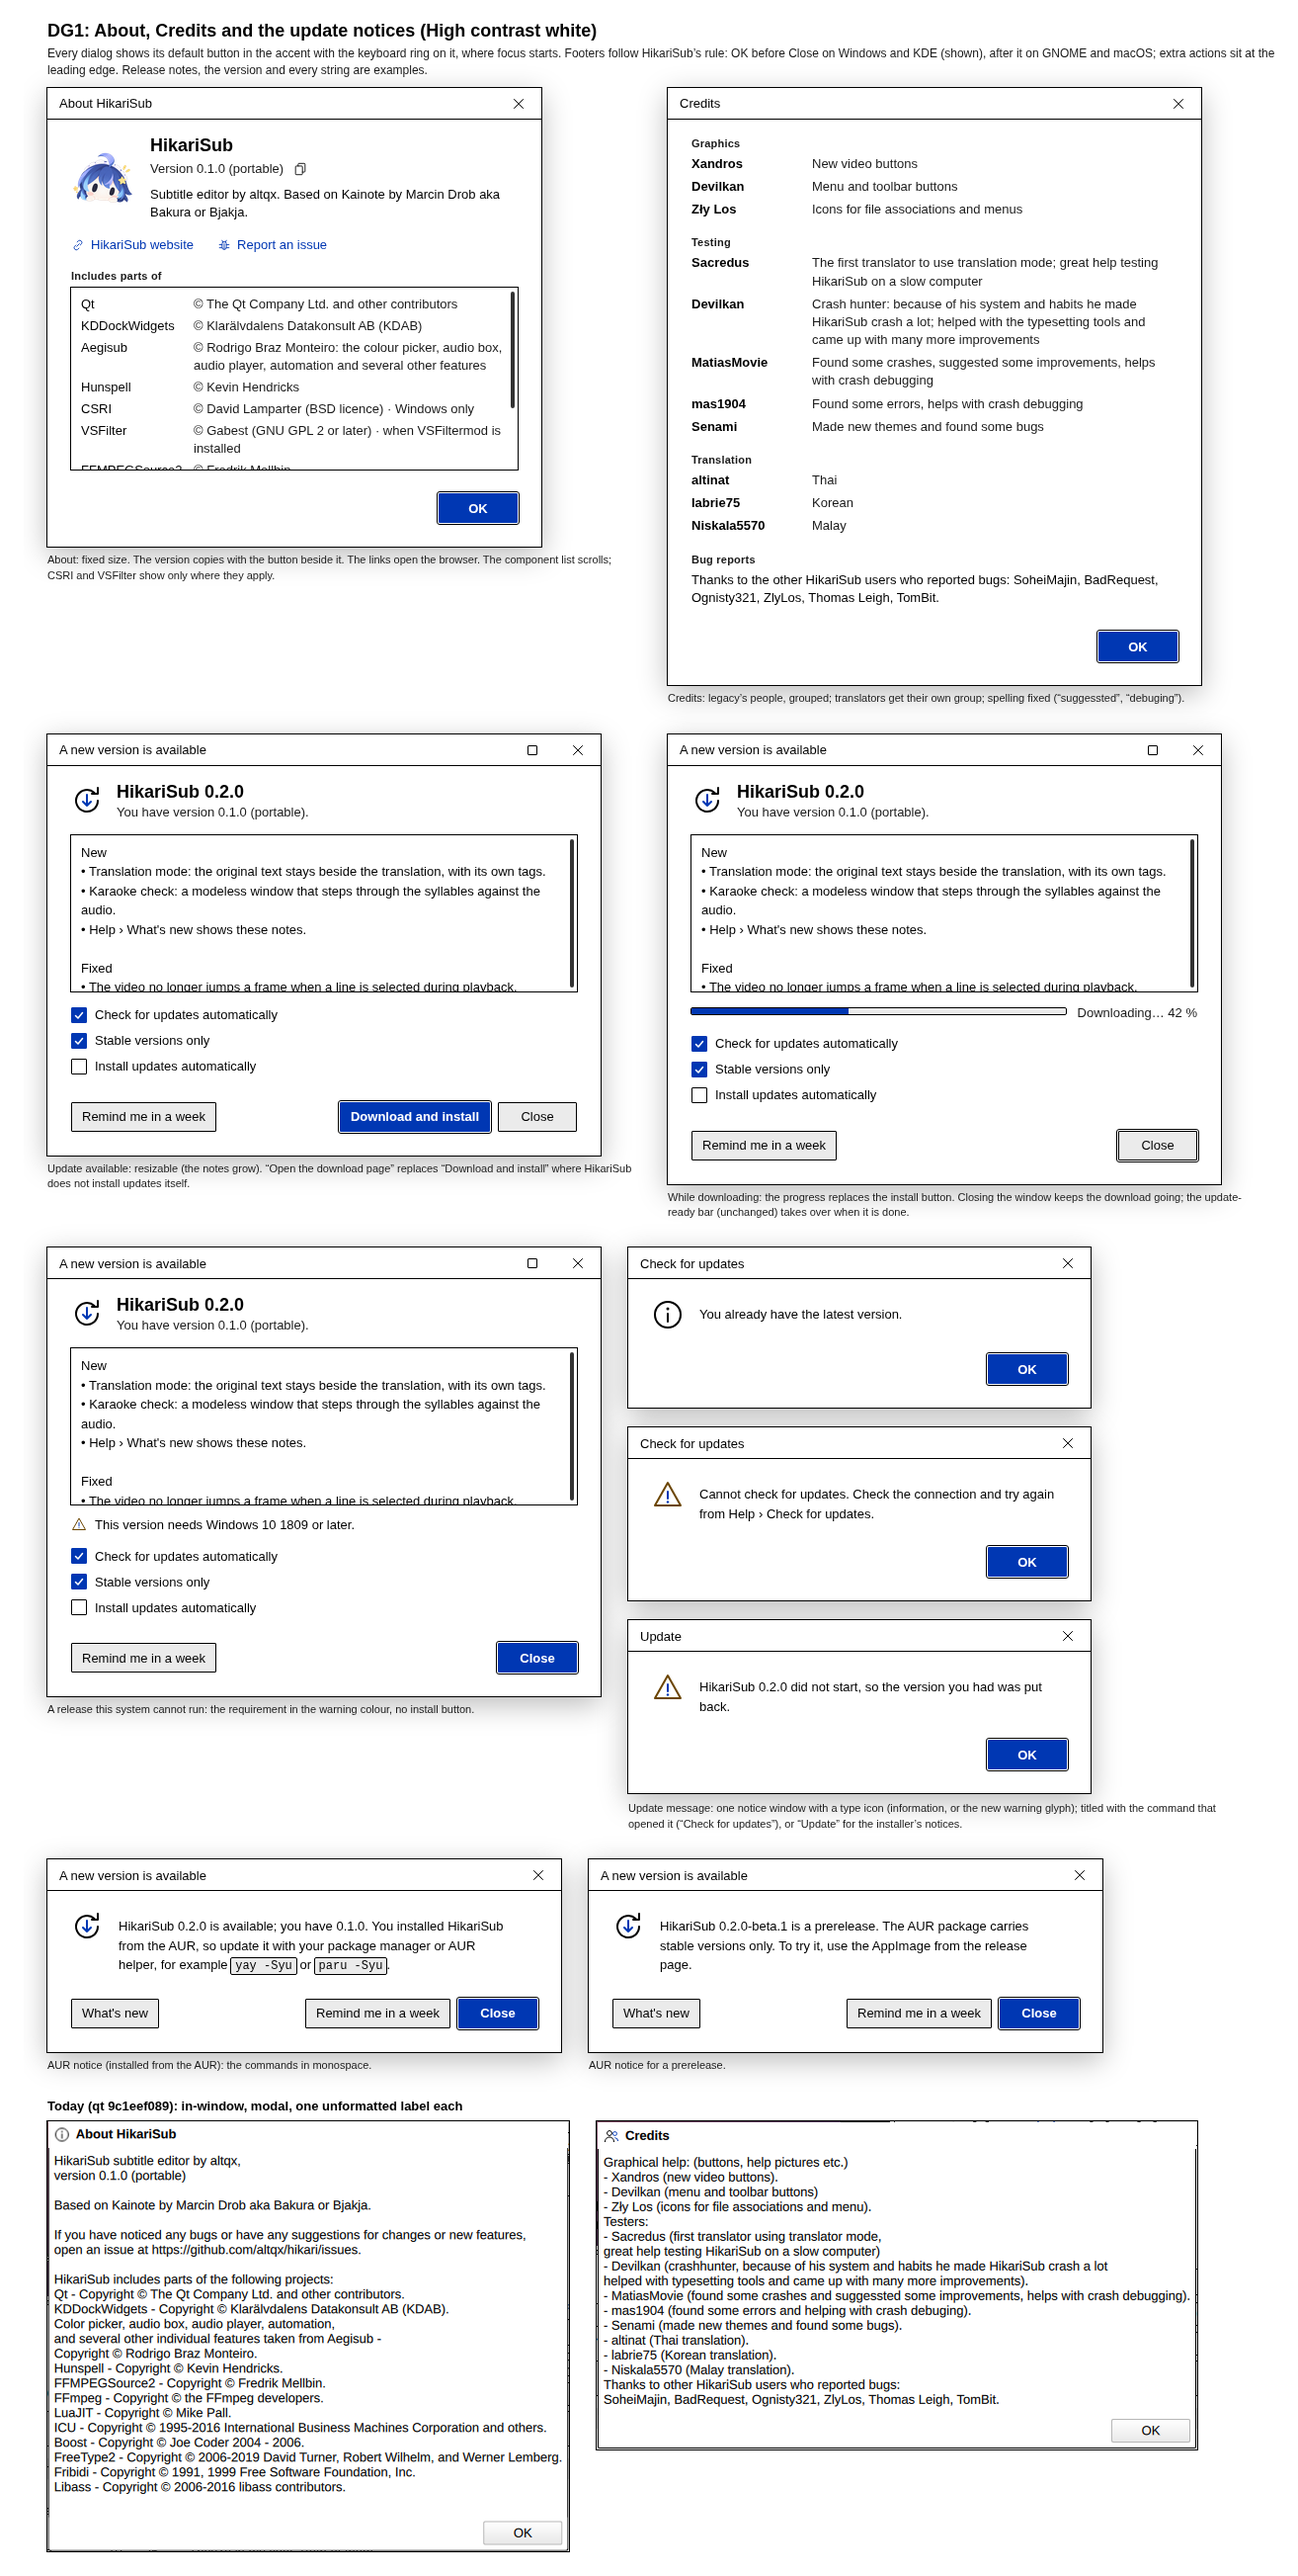
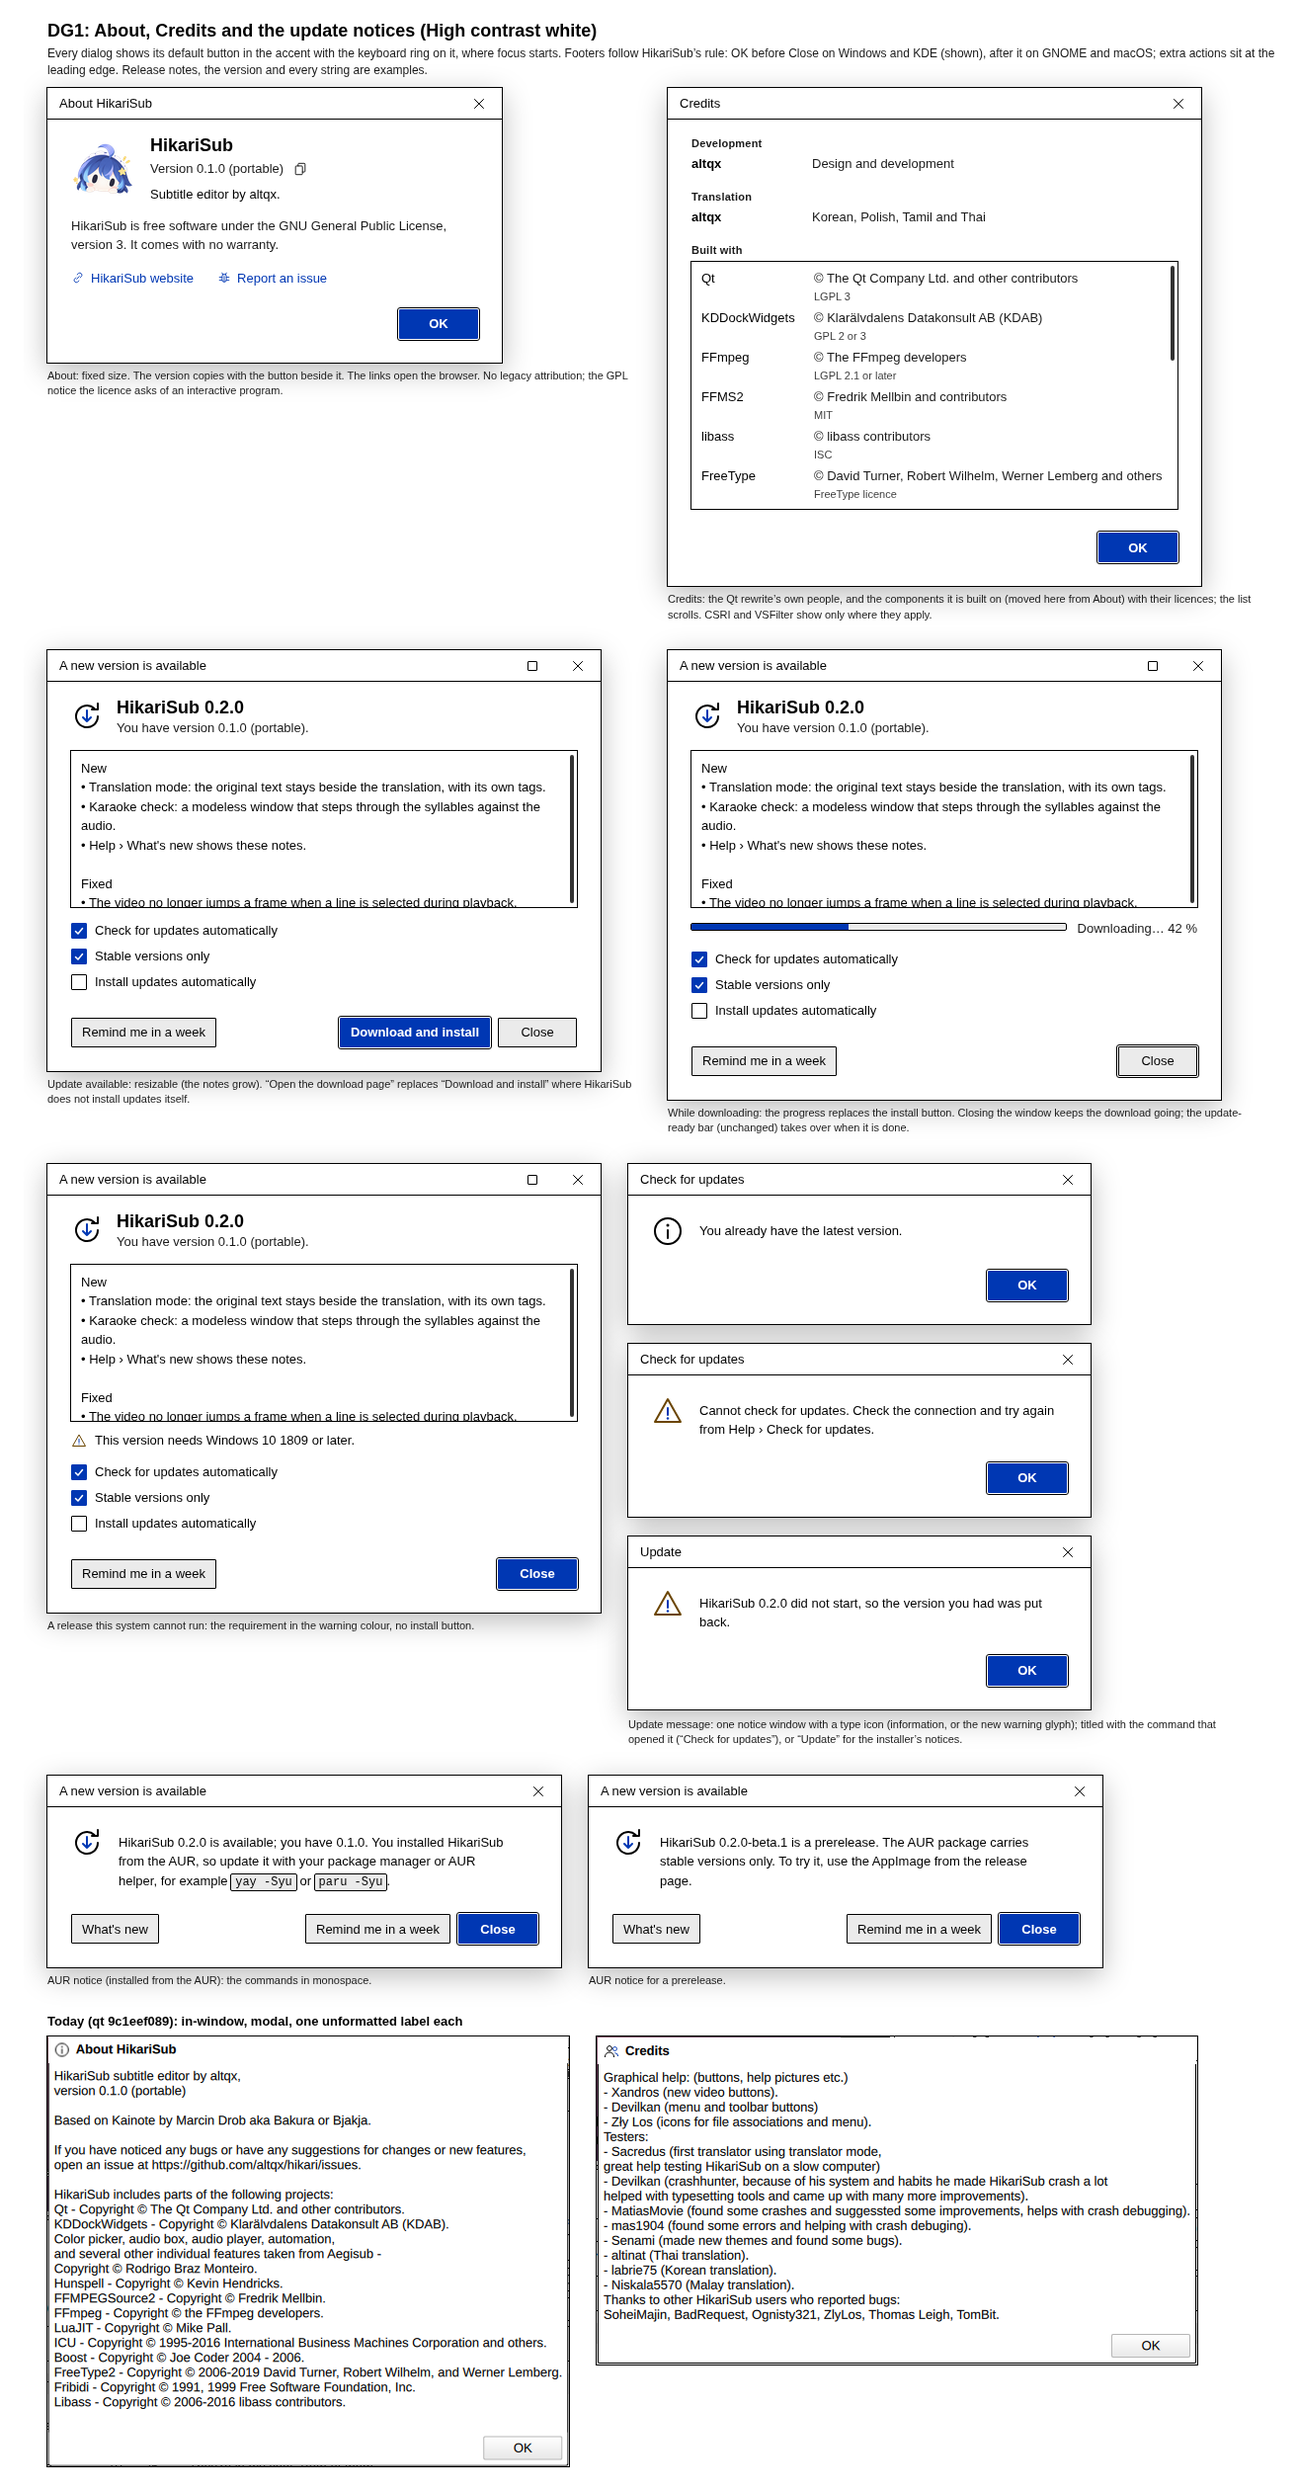
DG1 #222 mockup: About without the Kainote line, Credits redone for the Qt rewrite

diff --git a/evidence/w6-dg1/mockup/gen.py b/evidence/w6-dg1/mockup/gen.py
@@ -118,68 +118,64 @@ def checkbox(text, on):
 
 VERSION = "0.1.0 (portable)"
 
+# The Qt rewrite's own components (vcpkg.json, plus libass's text stack), with their licences.
 COMPONENTS = [
-    ("Qt", "© The Qt Company Ltd. and other contributors"),
-    ("KDDockWidgets", "© Klarälvdalens Datakonsult AB (KDAB)"),
-    ("Aegisub", "© Rodrigo Braz Monteiro: the colour picker, audio box, audio player, automation and several "
-                "other features"),
-    ("Hunspell", "© Kevin Hendricks"),
-    ("CSRI", "© David Lamparter (BSD licence) · Windows only"),
-    ("VSFilter", "© Gabest (GNU GPL 2 or later) · when VSFiltermod is installed"),
-    ("FFMPEGSource2", "© Fredrik Mellbin"),
-    ("FFmpeg", "© the FFmpeg developers"),
-    ("LuaJIT", "© Mike Pall"),
-    ("ICU", "© 1995-2016 International Business Machines Corporation and others"),
-    ("Boost", "© Joe Coder 2004 - 2006"),
-    ("FreeType2", "© 2006-2019 David Turner, Robert Wilhelm, and Werner Lemberg"),
-    ("Fribidi", "© 1991, 1999 Free Software Foundation, Inc."),
-    ("Libass", "© 2006-2016 libass contributors"),
+    ("Qt", "The Qt Company Ltd. and other contributors", "LGPL 3"),
+    ("KDDockWidgets", "Klarälvdalens Datakonsult AB (KDAB)", "GPL 2 or 3"),
+    ("FFmpeg", "The FFmpeg developers", "LGPL 2.1 or later"),
+    ("FFMS2", "Fredrik Mellbin and contributors", "MIT"),
+    ("libass", "libass contributors", "ISC"),
+    ("FreeType", "David Turner, Robert Wilhelm, Werner Lemberg and others", "FreeType licence"),
+    ("FriBidi", "FriBidi contributors", "LGPL 2.1 or later"),
+    ("HarfBuzz", "HarfBuzz contributors", "MIT"),
+    ("LuaJIT", "Mike Pall", "MIT"),
+    ("Boost", "Boost contributors", "Boost Software Licence 1.0"),
+    ("ICU", "Unicode, Inc. and others", "Unicode licence"),
+    ("Hunspell", "László Németh and others", "MPL 1.1, GPL 2 or LGPL 2.1"),
+    ("PortAudio", "Ross Bencina, Phil Burk and contributors", "MIT"),
+    ("curl", "Daniel Stenberg and contributors", "curl licence"),
+    ("PCRE2", "University of Cambridge and others", "BSD 3-clause"),
+    ("uchardet", "uchardet contributors", "MPL 1.1, GPL 2 or LGPL 2.1"),
+    ("CSRI", "David Lamparter · Windows only", "BSD"),
+    ("VSFilter", "Gabest and contributors · when VSFiltermod is installed", "GPL 2 or later"),
 ]
 
 
 def about(focus_copy=False, **kw):
-    rows = "".join(f'<div class="crow"><span class="cname">{n}</span><span class="cby">{b}</span></div>'
-                   for n, b in COMPONENTS)
     body = (
         '<div class="ahead">'
         f'<img class="alogo" src="{APP_ICON_64}" width="64" height="64" alt="">'
         '<div class="ameta"><div class="aname">HikariSub</div>'
         f'<div class="aver">Version {VERSION}'
         f'<span class="qb{" ring" if focus_copy else ""}" title="Copy version">{ic("edit-copy", 14)}</span></div>'
-        '<div class="aby">Subtitle editor by altqx. Based on Kainote by Marcin Drob aka Bakura or Bjakja.</div>'
+        '<div class="aby">Subtitle editor by altqx.</div>'
         '</div></div>'
+        '<p class="alic">HikariSub is free software under the GNU General Public License, version 3. It comes '
+        'with no warranty.</p>'
         '<div class="alinks">'
         f'<span class="lnk">{ic("link", 14)}HikariSub website</span>'
         f'<span class="lnk">{ic("report-issue", 14)}Report an issue</span></div>'
-        '<div class="seclabel">Includes parts of</div>'
-        f'<div class="clist"><div class="cscroll">{rows}</div><span class="sbar" style="top:4px;height:118px"></span></div>'
     )
-    return dialog("About HikariSub", body, btn("OK", primary=True, focus=not focus_copy), 500, **kw)
+    return dialog("About HikariSub", body, btn("OK", primary=True, focus=not focus_copy), 460, **kw)
 
 
-CREDITS = [
-    ("Graphics", [("Xandros", "New video buttons"), ("Devilkan", "Menu and toolbar buttons"),
-                  ("Zły Los", "Icons for file associations and menus")]),
-    ("Testing", [("Sacredus", "The first translator to use translation mode; great help testing HikariSub on a "
-                              "slow computer"),
-                 ("Devilkan", "Crash hunter: because of his system and habits he made HikariSub crash a lot; "
-                              "helped with the typesetting tools and came up with many more improvements"),
-                 ("MatiasMovie", "Found some crashes, suggested some improvements, helps with crash debugging"),
-                 ("mas1904", "Found some errors, helps with crash debugging"),
-                 ("Senami", "Made new themes and found some bugs")]),
-    ("Translation", [("altinat", "Thai"), ("labrie75", "Korean"), ("Niskala5570", "Malay")]),
+PEOPLE = [
+    ("Development", [("altqx", "Design and development")]),
+    ("Translation", [("altqx", "Korean, Polish, Tamil and Thai")]),
 ]
 
 
 def credits(**kw):
     s = []
-    for head, people in CREDITS:
+    for head, people in PEOPLE:
         s.append(f'<div class="seclabel">{head}</div><div class="plist">')
         s.extend(f'<span class="pname">{n}</span><span class="pwhat">{w}</span>' for n, w in people)
         s.append('</div>')
-    s.append('<div class="seclabel">Bug reports</div>'
-             '<p class="ptext">Thanks to the other HikariSub users who reported bugs: SoheiMajin, BadRequest, '
-             'Ognisty321, ZlyLos, Thomas Leigh, TomBit.</p>')
+    rows = "".join(f'<div class="crow"><span class="cname">{n}</span><span class="cby">© {by}'
+                   f'<span class="clic">{lic}</span></span></div>' for n, by, lic in COMPONENTS)
+    s.append('<div class="seclabel">Built with</div>'
+             f'<div class="clist"><div class="cscroll">{rows}</div>'
+             '<span class="sbar" style="top:4px;height:96px"></span></div>')
     return dialog("Credits", "".join(s), btn("OK", primary=True, focus=True), 540, **kw)
 
 
@@ -311,11 +307,13 @@ code{font:12px 'Liberation Mono',Consolas,monospace;background:%(raised)s;paddin
 .aver{display:flex;align-items:center;color:%(muted)s;margin-top:2px}
 .aby{margin-top:6px;line-height:1.4}
 .alinks{display:flex;gap:24px;margin-top:16px}
-.clist{position:relative;height:184px;background:%(field)s;outline:1px solid %(line)s;overflow:hidden}
+.clist{position:relative;height:250px;background:%(field)s;outline:1px solid %(line)s;overflow:hidden}
 .cscroll{padding:6px 14px 6px 10px}
 .crow{display:flex;gap:10px;line-height:18px;padding:2px 0}
 .cname{flex:none;width:104px}
 .cby{color:%(muted)s;flex:1}
+.clic{display:block;font-size:11px;color:%(muted)s;opacity:.85}
+.alic{margin-top:14px;line-height:1.45;color:%(muted)s}
 
 /* Credits */
 .plist{display:grid;grid-template-columns:110px 1fr;column-gap:12px;row-gap:5px;line-height:1.4}
@@ -360,14 +358,14 @@ def page(key, content, width=1280):
 
 def overview(key):
     th = THEMES[key]
-    # About, 500 wide, centred on the 1280x800 main window and moved 20 down (MuseScore's rule).
+    # About, 460 wide, centred on the 1280x800 main window and moved 20 down (MuseScore's rule).
     s = [f'<h1>DG1 dialog frame: About over the main window ({th["name"]})</h1>',
          '<p class="note">The dialog is its own top-level window in the custom title-bar style: the title, and '
          'Close (Maximise too when the dialog can be resized; never Minimise). It opens centred on the window '
          'that opened it, 20 lower, and later where it was left. It is modeless: the main window behind it stays '
          'usable and is not dimmed. Windows draws the shadow; on Wayland and X11 the frame is a 1-pixel line '
          'with no shadow, as SH1’s main window. The main window is today’s build (qt 9c1eef089).</p>',
-         f'<div class="app">{dialog_at(about(), 390, 108)}</div>']
+         f'<div class="app">{dialog_at(about(), 410, 270)}</div>']
     return "".join(s)
 
 
@@ -384,10 +382,11 @@ def dialogs(key):
          'string are examples.</p>',
          '<div class="row">',
          f'<div class="col">{about()}<p class="cap">About: fixed size. The version copies with the button '
-         'beside it. The links open the browser. The component list scrolls; CSRI and VSFilter show only where '
-         'they apply.</p></div>',
-         f'<div class="col">{credits()}<p class="cap">Credits: legacy’s people, grouped; translators get their '
-         'own group; spelling fixed (“suggessted”, “debuging”).</p></div>',
+         'beside it. The links open the browser. No legacy attribution; the GPL notice the licence asks of an '
+         'interactive program.</p></div>',
+         f'<div class="col">{credits()}<p class="cap">Credits: the Qt rewrite’s own people, and the components '
+         'it is built on (moved here from About) with their licences; the list scrolls. CSRI and VSFilter show '
+         'only where they apply.</p></div>',
          '</div>',
          '<div class="row" style="margin-top:28px">',
          f'<div class="col">{update_available()}<p class="cap">Update available: resizable (the notes grow). '
